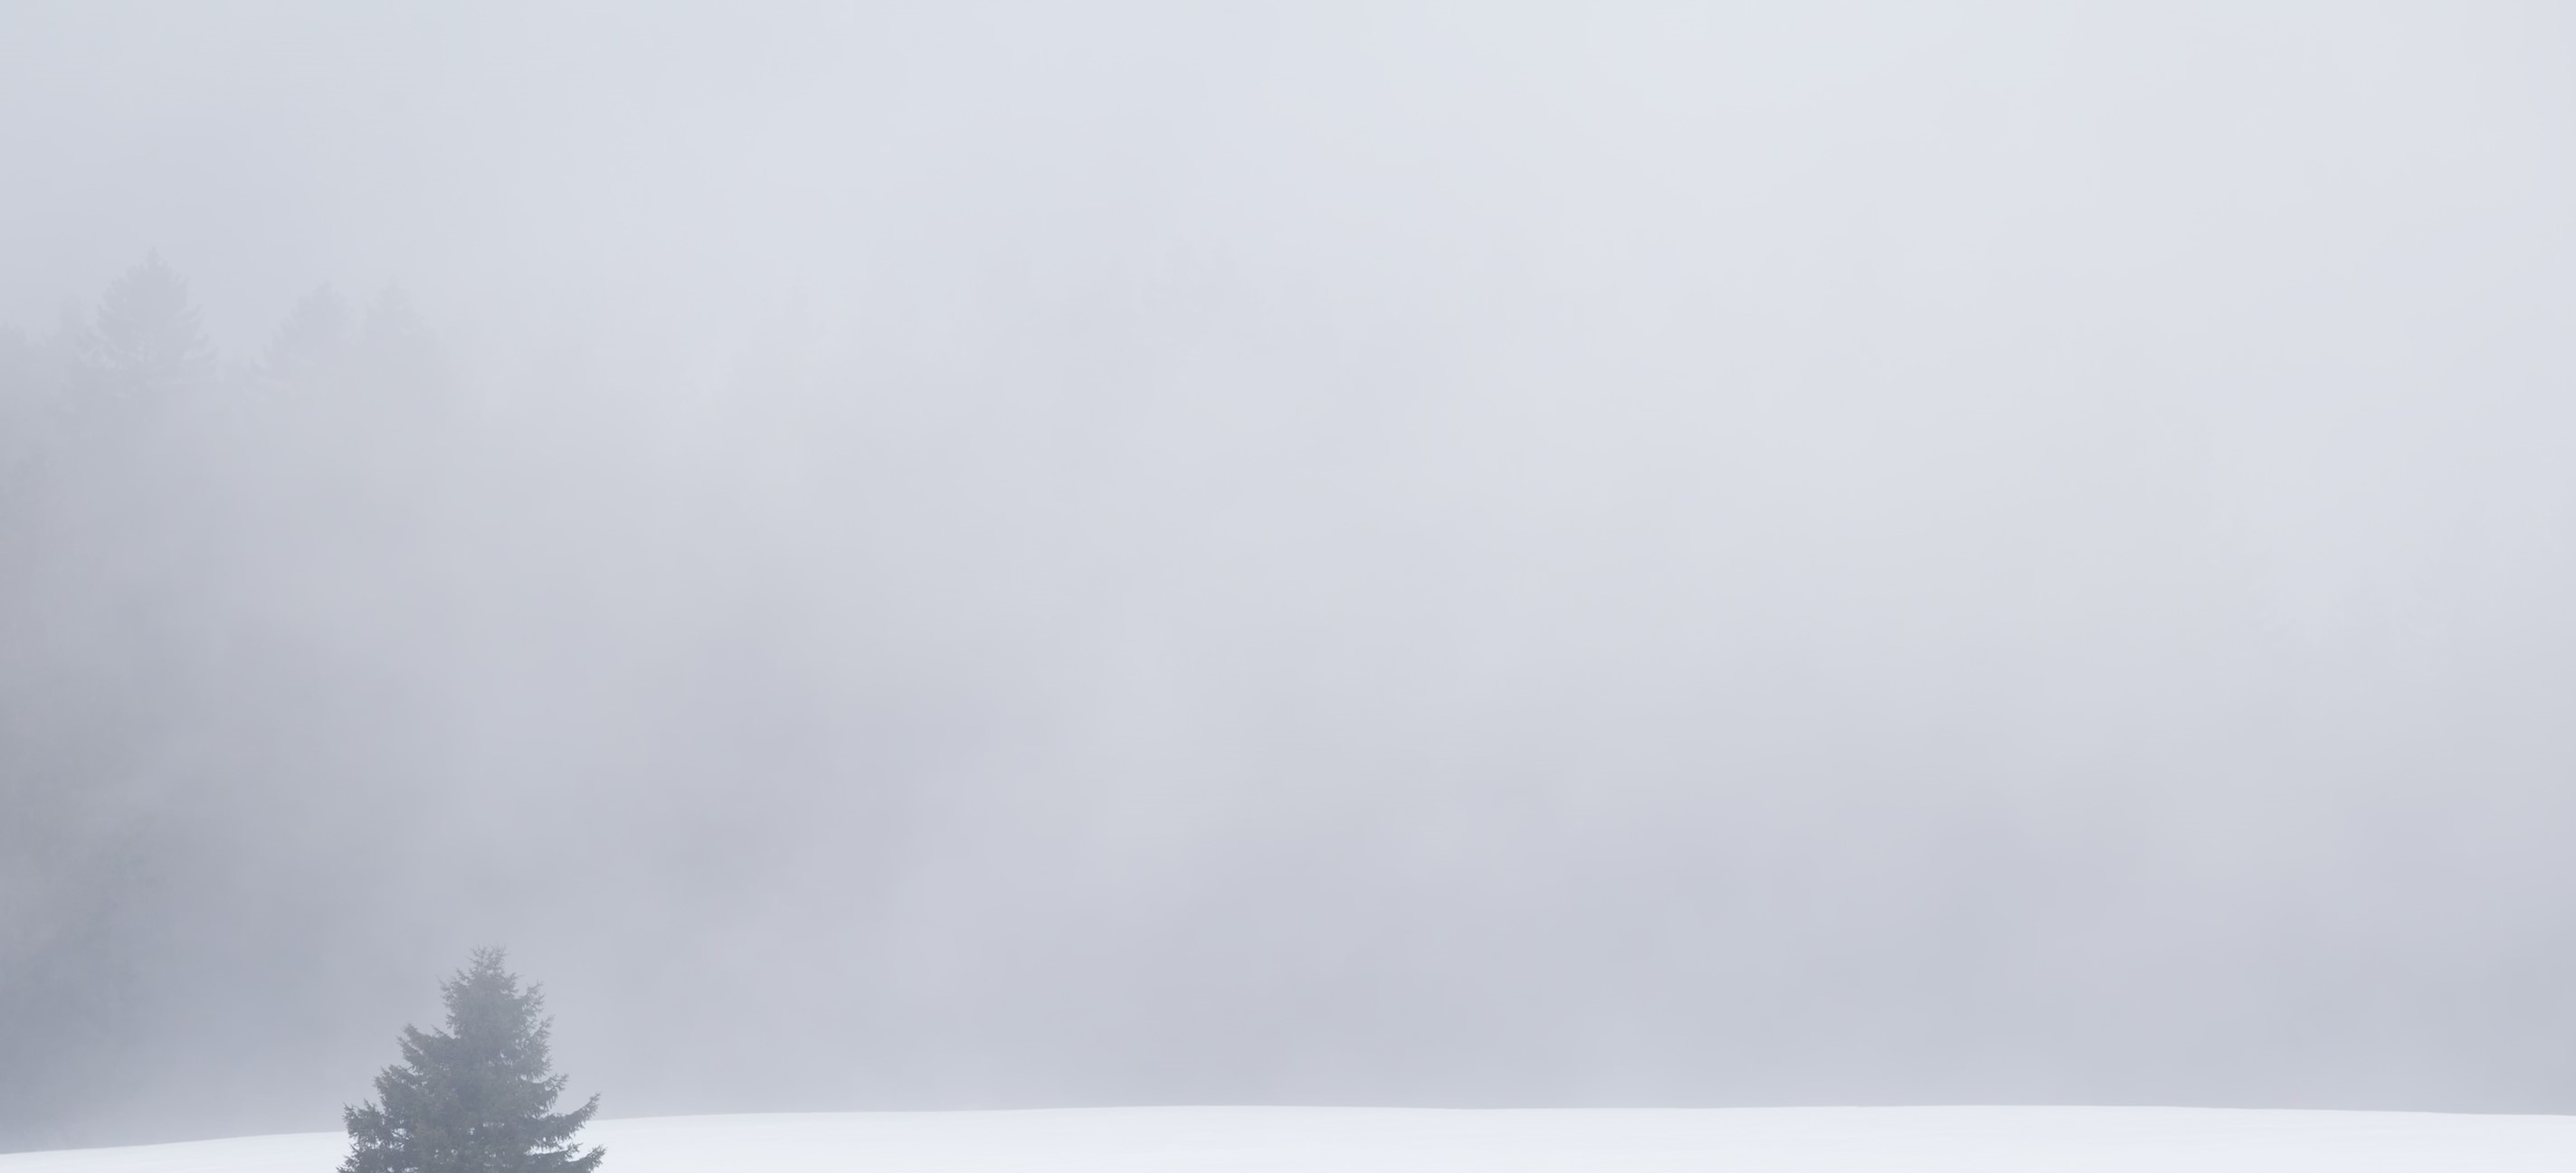
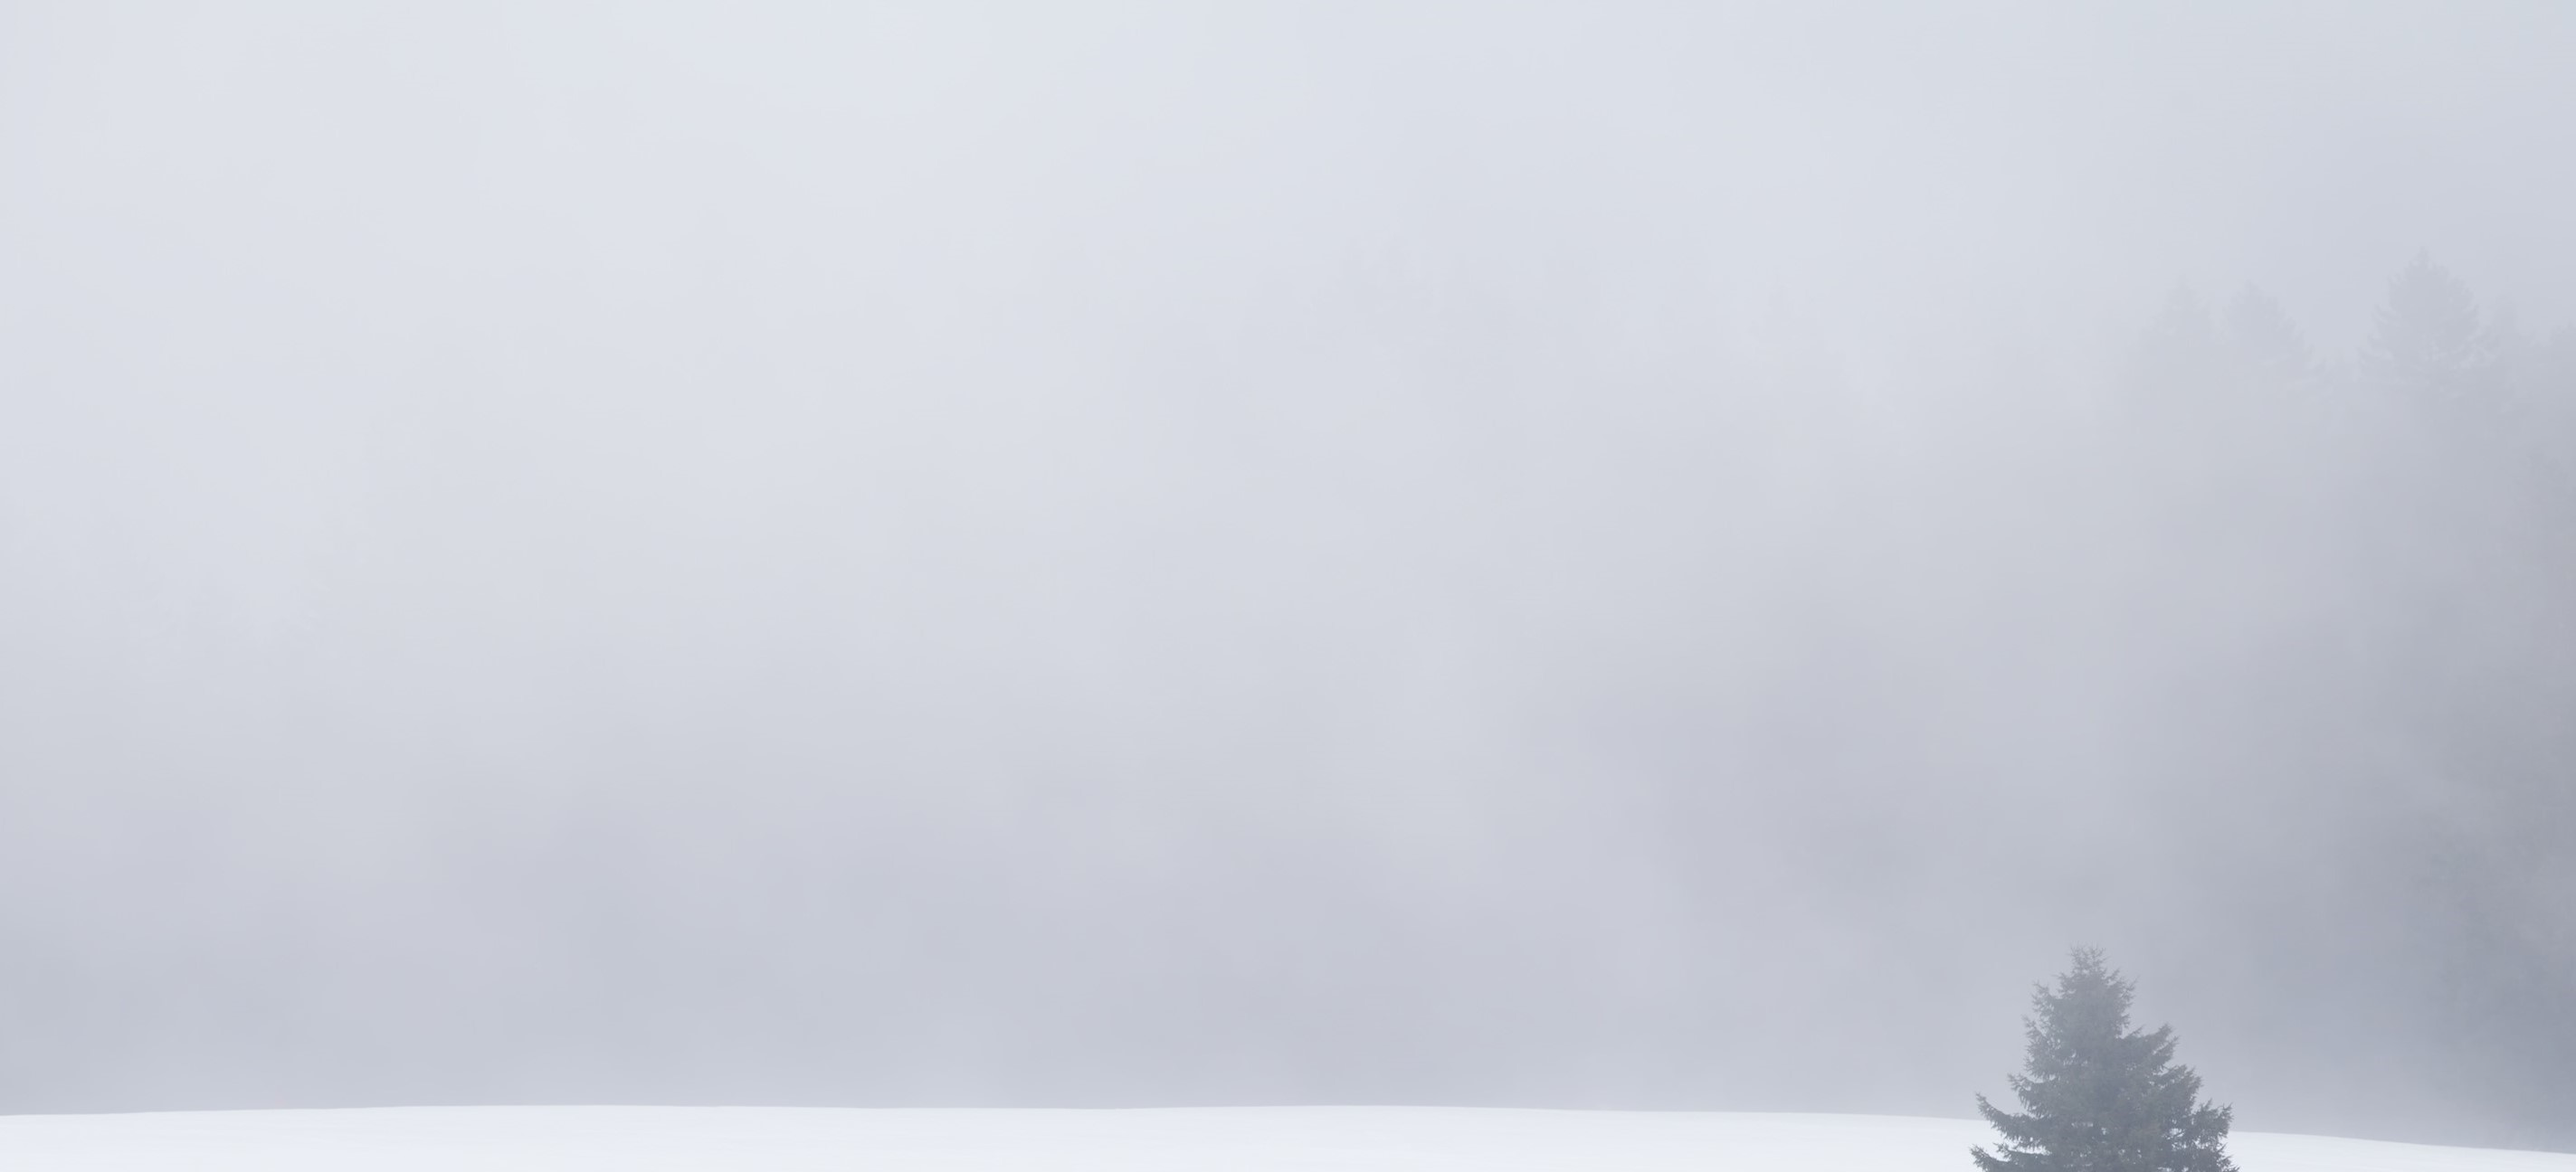
Expand pic in landscape

Changed region(s): [[0.68, 0.216, 1.0, 1.0], [0.0, 0.216, 0.3091, 1.0]]

diff --git a/projects/writing/sigurd/static/style.css b/projects/writing/sigurd/static/style.css
@@ -81,7 +81,7 @@ body {
 @media (min-width: 30em) and (orientation: landscape) {
     body {
         background: white url("images/Optimized-background - landscape.jpg") no-repeat center center fixed;
-        -webkit-background-size: 100%;
+        -webkit-background-size: 125%;
         -moz-background-size: 100%;
         -o-background-size: 100%;
         background-size: 100%;

diff --git a/projects/writing/static/style.css b/projects/writing/static/style.css
@@ -81,7 +81,7 @@ body {
 @media (min-width: 30em) and (orientation: landscape) {
     body {
         background: white url("images/Optimized-background - landscape.jpg") no-repeat center center fixed;
-        -webkit-background-size: 100%;
+        -webkit-background-size: 125%;
         -moz-background-size: 100%;
         -o-background-size: 100%;
         background-size: 100%;
